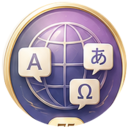
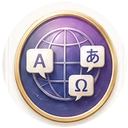
Polish achievement medal layout

diff --git a/docs/index.html b/docs/index.html
@@ -16,8 +16,10 @@
 @media(max-width:520px){.welcome{padding:20px 23px;min-height:0}.hero-name{grid-template-columns:minmax(0,1fr) 90px}.hero-name h1{font-size:clamp(40px,11vw,52px)}.current-medal{transform:none}.current-medal img{width:82px;height:82px}.current-medal b{font-size:9px}.current-medal span{font-size:10px}.medal-collection{gap:9px 6px;margin:9px 2px 10px}.welcome-badges{margin-top:0}.achievement-progress{padding:9px 12px;margin:8px 0}.achievement-copy{font-size:11px}.progress-track{margin-top:7px}.stats{margin:11px 0}.menu{margin-top:12px;gap:9px}.welcome .btn{padding:13px 16px}.welcome>.muted{margin:10px 0 5px}.quick-settings{margin:7px 0 2px}}
 .medal-collection{grid-template-columns:repeat(12,1fr)}.medal-slot{grid-column:span 2}.medal-slot:nth-child(7){grid-column:2/span 2}.lock-content{display:flex;align-items:center;justify-content:center;gap:6px;color:#929997}.lock-content b{font:700 10px Georgia,serif}.current-medal span{margin-top:0;white-space:nowrap}.current-medal b{display:none}
 @media(max-width:520px){html,body{height:100%;overflow:hidden}.shell:not(.admin)[data-view="home"]{height:100dvh;justify-content:flex-start;overflow:hidden}.shell:not(.admin)[data-view="home"]>.brand{margin-top:0}.shell:not(.admin)[data-view="home"]>.welcome{flex:1 1 auto;min-height:0;overflow:hidden}.shell:not(.admin)[data-view="home"].settings-open>.welcome{overflow-y:auto}.shell:not(.admin)[data-view="home"]>.teacher-entry{flex:0 0 auto;margin-top:5px}.medal-collection{gap:8px 5px}.lock-content{gap:4px}.lock-content b{font-size:9px}.lock-shape{transform:scale(.82)}}
+.achievement-hero:before{height:430px;background:radial-gradient(ellipse at 42% 18%,var(--achievement-glow),transparent 64%)}.hero-name{grid-template-columns:max-content 110px;justify-content:start;gap:13px}.hero-name h1{max-width:235px;overflow-wrap:anywhere}.current-medal{justify-self:start;transform:none}.current-medal img{display:block;width:106px;height:106px;object-fit:contain;object-position:center;clip-path:none;transform:none}.medal-slot img{display:block;object-position:center}.medal-slot small{bottom:-4px;min-width:21px;padding:2px 5px;border-radius:999px;background:#fff7df;border-color:#d7ab4d;box-shadow:0 2px 5px #7b5b1c20;font-size:8px;line-height:1}.medal-slot.locked small{box-shadow:none}.current-medal span{margin-top:-2px}
+@media(max-width:520px){.hero-name{grid-template-columns:max-content 92px;gap:9px}.hero-name h1{max-width:220px}.current-medal img{width:88px;height:88px}.achievement-hero:before{background:radial-gradient(ellipse at 43% 17%,var(--achievement-glow),transparent 66%)}}
 </style></head><body><main id="app" class="shell"><div class="loading">Загружаю занятие…</div></main>
-<script src="./streak.js?v=5"></script><script>
+<script src="./streak.js?v=6"></script><script>
 const params=new URLSearchParams(location.search),queryToken=params.get('token')||'',queryTeacher=params.get('teacher')||'';if(queryToken)localStorage.setItem('wordsToken',queryToken);if(queryTeacher)localStorage.setItem('wordsTeacher',queryTeacher);const TOKEN=queryToken||localStorage.getItem('wordsToken')||'';let TEACHER=queryTeacher||(!TOKEN?localStorage.getItem('wordsTeacher')||'':'');const API_URL='https://script.google.com/macros/s/AKfycbzXGwwZqhBFhVkdWnY84sz4YAc-iTSqShHS9PDfTaNq6uDQF-geMDTpUk4zptzNLnHarQ/exec',APP_URL=location.origin+location.pathname,app=document.getElementById('app');let lesson,index=0,ratings=[],quizIndex=0,quizScore=0,quizAnswers=[],retry=[],retryIndex=0,tableTabs={words:[],verbs:[]},autoSound=localStorage.getItem('wordsAutoSound')!=='0',speechRate=Number(localStorage.getItem('wordsSpeechRate')||.82),preferredVoice=localStorage.getItem('wordsVoice')||'',repeatSound=localStorage.getItem('wordsRepeatSound')==='1',remindersEnabled=localStorage.getItem('wordsReminders')==='1',homeData=null,lastSaved=true,lastMistakes=[],lastSummary=null,practiceAfterLesson=false,progressRun=null,progressType=sessionStorage.getItem('wordsProgressType')||'';
 const LOCAL_TIME_ZONE=Intl.DateTimeFormat().resolvedOptions().timeZone||'Europe/Moscow';
 const reminderPhrases=['Семь слов сегодня — заметный шаг к свободной речи.','Пять минут практики лучше, чем идеальный план на потом.','Твои слова ждут короткого повторения.','Каждое повторение делает речь увереннее.','Открой Words — один маленький урок уже считается победой.','Память любит регулярность. Самое время повторить слова.','Семь карточек — и дневная цель станет ближе.','Не обязательно долго: достаточно одного занятия.','Сегодняшнее повторение экономит время завтра.','Слова становятся твоими, когда ты к ним возвращаешься.','Небольшая тренировка сегодня — уверенный разговор потом.','Есть слова для повторения. Поможем им закрепиться?','Один урок занимает несколько минут, а результат остаётся надолго.','Продолжай серию занятий — начни с семи карточек.','Самое сложное — открыть приложение. Дальше будет легко.','Проверь себя: возможно, сегодня ты знаешь больше, чем вчера.','Повтори знакомое и добавь несколько новых слов.','Язык растёт по одному слову. Добавим сегодняшние семь?','Короткая практика прямо сейчас поддержит твой прогресс.','Вернись к словам на несколько минут — они уже почти закрепились.'];
@@ -89,5 +91,5 @@ function leaveTeacher(){TEACHER='';localStorage.removeItem('wordsTeacher');app.c
 async function teacherLogin(){let key=localStorage.getItem('wordsTeacher')||'';if(!key)key=prompt('Введите код преподавателя:')||'';if(!key)return;showLoading('Открываю кабинет преподавателя…');try{const d=await call('bootstrap','',key);if(d.role!=='teacher')throw new Error('Неверный код.');TEACHER=key;localStorage.setItem('wordsTeacher',key);tableTabs=d.tabs||{words:[],verbs:[]};renderTeacher(d.dashboard)}catch(e){localStorage.removeItem('wordsTeacher');alert(e.message);location.reload()}}
 function studentRow(s){const difficult=s.difficult||[],items=s.history||[],words=s.words||{learned:0,studied:s.studied||0},verbs=s.verbs||{learned:0,studied:0},hard=difficult.length?difficult.map(x=>`${esc(x.word)} (${x.wrong})`).join(', '):'ошибок пока нет',history=items.length?items.map(x=>`<div class="history">${fmtDate(x.date)} · ${x.category==='verb'?'глаголы':'слова'} · ${x.score}/${x.total}</div>`).join(''):'<div class="history">Занятий пока нет</div>',editData=encodeURIComponent(JSON.stringify({token:s.token,name:s.name,wordsTab:s.wordsTab,verbsTab:s.verbsTab,language:s.language}));return `<div class="student"><div class="student-head"><div><b>${esc(s.name)}</b><div class="meta">Последний вход: ${fmtDate(s.lastSeen)} · последний тест ${s.lastScore||'—'}</div><div class="meta">Вкладки: ${esc(s.wordsTab)} / ${esc(s.verbsTab||'—')}</div></div><div><button class="btn secondary" onclick='copyLink(${JSON.stringify(s.token)})'>Ссылка</button> <button class="btn secondary" onclick="editStudent('${editData}')">Редактировать</button> <button class="btn ghost" onclick='resetStudent(${JSON.stringify(s.token)},${JSON.stringify(s.name)})'>Сбросить прогресс</button> <button class="btn ${s.active?'danger':'primary'}" onclick='toggleStudent(${JSON.stringify(s.token)},${!s.active})'>${s.active?'Отключить':'Включить'}</button> <button class="btn danger" onclick='removeStudent(${JSON.stringify(s.token)},${JSON.stringify(s.name)})'>Удалить</button></div></div><div class="student-grid"><div class="mini"><b>${s.today||0}</b><br>занятий сегодня</div><div class="mini"><b>${s.week||0}</b><br>за 7 дней</div><div class="mini"><b>${words.learned||0}/${words.studied||0}</b><br>слова</div><div class="mini"><b>${verbs.learned||0}/${verbs.studied||0}</b><br>глаголы</div></div><details class="details"><summary>Ошибки и история</summary><p><b>Сложные:</b> ${hard}</p>${history}</details></div>`}
 async function addStudent(){try{const r=await call('createStudent',TEACHER,{name:newName.value,wordsTab:newWords.value,verbsTab:newVerbs.value,language:newLanguage.value});renderTeacher(r.dashboard);await copyText(studentLink(r.token));alert('Ученик создан. Ссылка скопирована.')}catch(e){alert(e.message)}}async function editStudent(encoded){const s=JSON.parse(decodeURIComponent(encoded)),name=prompt('Имя ученика:',s.name);if(name===null)return;const wordsTab=prompt('Вкладка слов:',s.wordsTab);if(wordsTab===null)return;const verbsTab=prompt('Вкладка глаголов (можно оставить пустой):',s.verbsTab||'');if(verbsTab===null)return;const language=confirm('Нажмите OK для испанского, «Отмена» для английского.')?'es':'en';try{renderTeacher(await call('updateStudent',TEACHER,s.token,{name,wordsTab,verbsTab,language}))}catch(e){alert(e.message)}}async function toggleStudent(t,a){try{renderTeacher(await call('setStudentActive',TEACHER,t,a))}catch(e){alert(e.message)}}async function resetStudent(t,name){if(!confirm('Удалить весь прогресс и историю ученика «'+name+'»?'))return;try{const dashboard=await call('resetStudentProgress',TEACHER,t);localStorage.removeItem('wordsHome:'+t);renderTeacher(dashboard);alert('Прогресс ученика сброшен: счётчики обнулены.')}catch(e){alert(e.message)}}async function removeStudent(t,name){if(!confirm('Удалить ученика «'+name+'» вместе со всем прогрессом и историей? Вкладки со словами останутся.'))return;try{const dashboard=await call('deleteStudent',TEACHER,t);localStorage.removeItem('wordsHome:'+t);renderTeacher(dashboard);alert('Ученик «'+name+'» удалён.')}catch(e){alert(e.message)}}async function copyText(t){try{await navigator.clipboard.writeText(t)}catch(e){prompt('Скопируйте ссылку:',t)}}async function copyLink(t){await copyText(studentLink(t));alert('Персональная ссылка готова.')}
-if('serviceWorker' in navigator){window.addEventListener('load',()=>navigator.serviceWorker.register('./sw.js?v=37',{updateViaCache:'none'}).then(registration=>registration.update()).catch(()=>{}))}init();
+if('serviceWorker' in navigator){window.addEventListener('load',()=>navigator.serviceWorker.register('./sw.js?v=38',{updateViaCache:'none'}).then(registration=>registration.update()).catch(()=>{}))}init();
 </script></body></html>

diff --git a/docs/sw.js b/docs/sw.js
@@ -1,4 +1,4 @@
-const CACHE='words-shell-v37';
+const CACHE='words-shell-v38';
 const SHELL=['./','./index.html','./streak.js','./manifest.webmanifest','./icon-words-v3-180.png','./icon-words-v3-512.png','./achievements/first.webp','./achievements/student.webp','./achievements/rhythm.webp','./achievements/practice.webp','./achievements/habit.webp','./achievements/speaker.webp','./achievements/explorer.webp','./achievements/linguist.webp','./achievements/master.webp','./achievements/expert.webp','./achievements/legend.webp'];
 self.addEventListener('install',event=>event.waitUntil(caches.open(CACHE).then(cache=>cache.addAll(SHELL)).then(()=>self.skipWaiting())));
 self.addEventListener('activate',event=>event.waitUntil(caches.keys().then(keys=>Promise.all(keys.filter(key=>key!==CACHE).map(key=>caches.delete(key)))).then(()=>self.clients.claim())));
